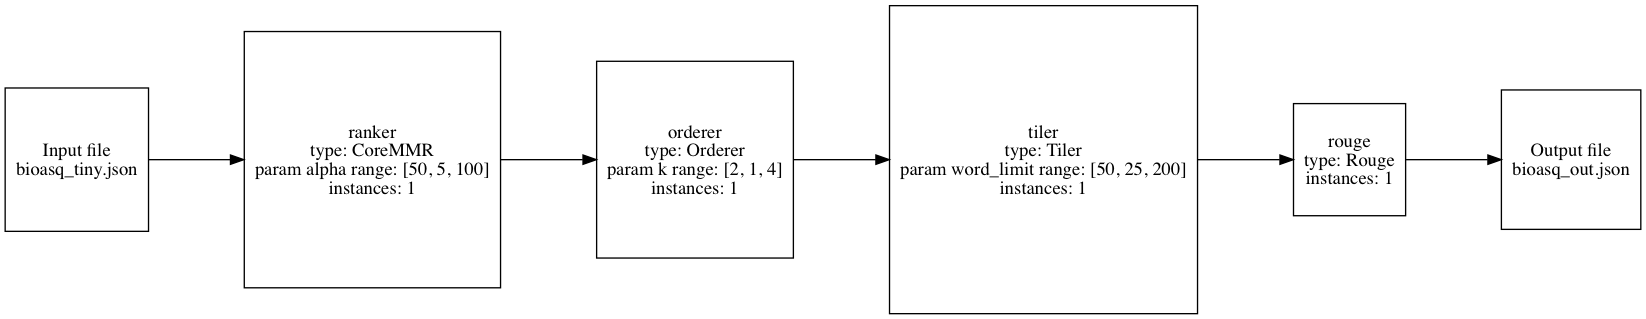
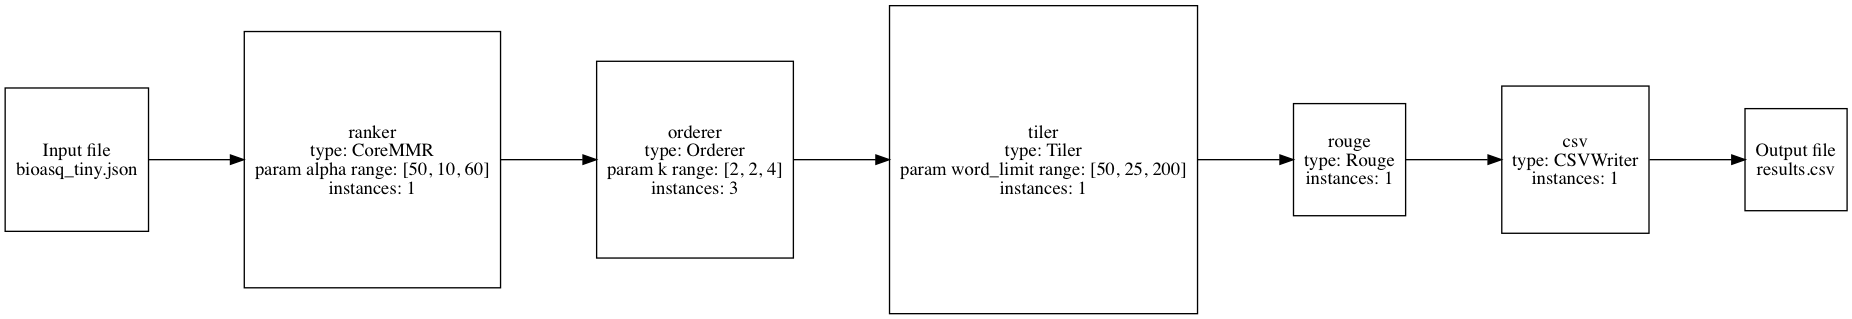
Added CSVWriter module.

diff --git a/src/modules/csv_writer.py b/src/modules/csv_writer.py
@@ -1,0 +1,36 @@
+import glog as log
+import csv
+from .module import Module
+
+class CSVWriter(Module):
+
+    def __init__(self, module_id, name, rabbitmq_host, pipeline_conf, module_conf, **kwargs):
+        super().__init__(module_id, name, rabbitmq_host, pipeline_conf, module_conf, **kwargs)
+        self.content = []
+        self.header = []
+
+    def process(self, job, data):
+        # Create header when first called.
+        if self.header == []:
+            self.header = [k for k in data]
+            log.info("The header is " + str(self.header))
+        self.content.append([job.output_path] + [data[k] for k in self.header])
+        return data
+
+    ## Save csv file, overriding the default saving function.
+    #  @param job The job to be saved.
+    #  @param data The data to be saved.
+    #  @return the path to data.
+    def save_job_data(self, job, data):
+        path = job.output_base + self.output_file
+        log.info('Save csv to ' + path)
+        with open(path, 'w', newline='') as csvfile:
+            writer = csv.writer(csvfile)
+            writer.writerow(['configuration'] + self.header)
+            for row in self.content:
+                writer.writerow(row)
+        return path
+
+
+if __name__ == '__main__':
+    pass

diff --git a/src/modules/__init__.py b/src/modules/__init__.py
@@ -2,7 +2,7 @@
 The package of all modules.
 """
 
-__all__ = ['Module', 'Sample', 'CoreMMR', 'Orderer', 'bioasq', 'Rouge']
+__all__ = ['Module', 'Sample', 'CoreMMR', 'Orderer', 'bioasq', 'Rouge', 'CSVWriter']
 
 from .module import Module
 from .sample import Sample
@@ -10,3 +10,4 @@ from .mmr import CoreMMR
 from .orderer import Orderer
 from .tiler import Tiler
 from .rouge import Rouge
+from .csv_writer import CSVWriter

diff --git a/src/modules/rouge.py b/src/modules/rouge.py
@@ -19,7 +19,8 @@ class Rouge(Module):
             all_scores.append(score)
             f_scores.append(score['f'])
 
-        result = {'individual': all_scores, 'average': sum(f_scores)/len(f_scores)}
+        #result = {'individual': all_scores, 'average': sum(f_scores)/len(f_scores)}
+        result = {'average': sum(f_scores)/len(f_scores)}
         log.info(result)
 
         return result

diff --git a/src/modules/module.py b/src/modules/module.py
@@ -92,7 +92,7 @@ class Module():
 
             ch.basic_ack(delivery_tag = method.delivery_tag)
             log.info(self.name + ' sent back job: ' + str(job.id))
-            log.info(job)
+            log.debug(job)
 
         elif data['type'] == 'command':
             cmd = json.loads(data['body'])
